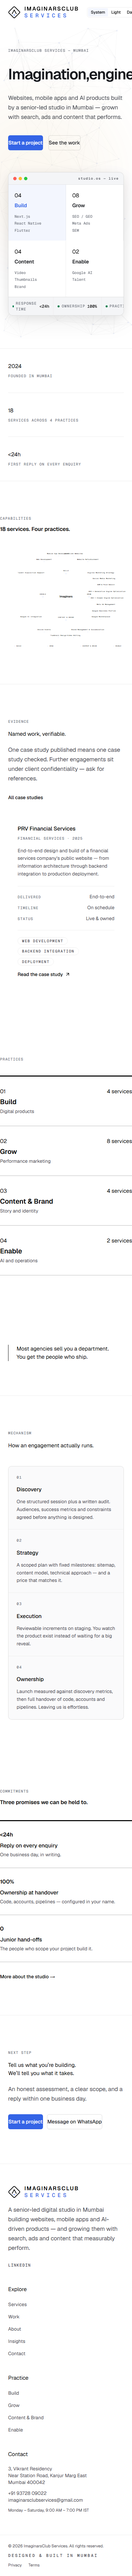
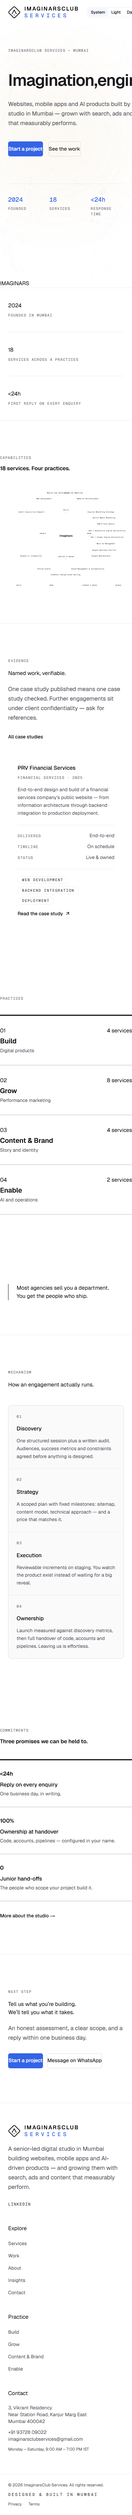
feat(v4): deep creative rebuild — cinematic hero with console panel, scroll choreography, mobile nav 44px targets
- Hero: two-column composition (display type left, capability console right)
- Console panel: glass-morphic capability grid showing all 4 practices
  with hover expansion, service counts, and status indicators
- Entrance choreography: hairline draw -> line-mask headline -> staggered
  reveals -> console panel scale-in (all reduced-motion safe)
- Canvas particle engine: cursor-reactive, dual-mode colors via CSS vars,
  pauses offscreen/hidden, clean disposal
- Mobile nav: 44x44 touch targets, aria-expanded/controls, proper Sheet
- Design tokens: richer surface elevation, warm amber accent, electric
  blue technical accent, signal green for status

diff --git a/src/components/home/hero.tsx b/src/components/home/hero.tsx
@@ -4,43 +4,49 @@ import Link from "next/link";
 import { useEffect, useRef } from "react";
 import ImaginationEngine from "@/components/hero/engine";
 
+const PRACTICES = [
+  { index: "01", title: "Build", count: "04", desc: "Websites · Apps · AI products", href: "/services/build" },
+  { index: "02", title: "Grow", count: "08", desc: "SEO · SEM · Social · Google Business", href: "/services/grow" },
+  { index: "03", title: "Content & Brand", count: "04", desc: "Video · Thumbnails · Brand systems", href: "/services/content" },
+  { index: "04", title: "Enable", count: "02", desc: "Google AI · Talent acquisition", href: "/services/enable" },
+];
+
 export default function Hero() {
-  const ref = useRef<HTMLElement>(null);
-  const panelRef = useRef<HTMLDivElement>(null);
+  const rootRef = useRef<HTMLElement>(null);
+  const consoleRef = useRef<HTMLDivElement>(null);
 
   useEffect(() => {
-    const el = ref.current;
+    const el = rootRef.current;
     if (!el) return;
     if (window.matchMedia("(prefers-reduced-motion: reduce)").matches) {
       el.classList.add("hero-done");
       return;
     }
+    // Staged entrance: hairline → headline masks → lede → CTAs → console
     const raf = requestAnimationFrame(() => requestAnimationFrame(() => el.classList.add("hero-done")));
     return () => cancelAnimationFrame(raf);
   }, []);
 
-  // Subtle parallax on module panel via cursor
+  // Console parallax — subtle depth response to cursor
   useEffect(() => {
-    const panel = panelRef.current;
+    const panel = consoleRef.current;
     if (!panel) return;
     if (!window.matchMedia("(pointer: fine)").matches) return;
     if (window.matchMedia("(prefers-reduced-motion: reduce)").matches) return;
 
-    const ry = { v: 0 };
-    const rx = { v: 0 };
-    let raf = 0;
+    let rafId = 0;
     function onMove(e: MouseEvent) {
       const rect = panel!.getBoundingClientRect();
       const px = (e.clientX - rect.left) / rect.width - 0.5;
       const py = (e.clientY - rect.top) / rect.height - 0.5;
-      cancelAnimationFrame(raf);
-      raf = requestAnimationFrame(() => {
-        panel!.style.transform = `perspective(1200px) rotateY(${px * 6}deg) rotateX(${py * -4}deg)`;
+      cancelAnimationFrame(rafId);
+      rafId = requestAnimationFrame(() => {
+        panel!.style.transform = `perspective(1200px) rotateY(${px * 5}deg) rotateX(${py * -3}deg)`;
       });
     }
     function reset() {
-      cancelAnimationFrame(raf);
-      panel!.style.transform = "perspective(1200px)";
+      cancelAnimationFrame(rafId);
+      panel!.style.transform = "";
     }
     window.addEventListener("mousemove", onMove, { passive: true });
     panel!.addEventListener("mouseleave", reset);
@@ -51,85 +57,145 @@ export default function Hero() {
   }, []);
 
   return (
-    <section ref={ref} className="relative overflow-hidden min-h-[calc(100dvh-72px)]" data-chapter="hero">
-      <ImaginationEngine className="z-0" />
-
-      {/* Warm ambient glow */}
-      <div aria-hidden="true" className="absolute right-[10%] top-[20%] h-[500px] w-[500px] rounded-full opacity-[0.06] blur-[100px]"
+    <section ref={rootRef} className={`relative overflow-hidden min-h-[calc(100dvh-72px)] ${""}`} data-chapter="hero">
+      {/* Ambient layers */}
+      <ImaginationEngine className="z-0 opacity-[0.35]" />
+      <div aria-hidden="true" className="absolute inset-0 z-[1] opacity-[0.03]" style={{
+        backgroundImage: "linear-gradient(to right, var(--line) 1px, transparent 1px), linear-gradient(to bottom, var(--line) 1px, transparent 1px)",
+        backgroundSize: "80px 64px",
+      }} />
+      <div aria-hidden="true" className="absolute right-[5%] top-[15%] h-[420px] w-[420px] rounded-full opacity-[0.05] blur-[100px]"
         style={{ background: "var(--gold)" }} />
 
-      <div className="shell relative z-10 pt-[clamp(48px,8vh,96px)] pb-16">
-        <p className="micro reveal">ImaginarsClub Services — Mumbai</p>
+      <div className="shell relative z-10 pt-[clamp(48px,8vh,96px)] pb-[var(--space-10)]">
+        {/* Two-column: massive type left, capability console right */}
+        <div className="grid gap-16 lg:grid-cols-[1.2fr_1fr] lg:gap-12 items-start">
 
-        <h1 data-lines aria-label="Imagination, engineered."
-          className="mt-10"
-          style={{
-            fontWeight: 600,
-            fontSize: "clamp(2.75rem, 6.2vw, 7rem)",
-            letterSpacing: "-0.035em",
-            lineHeight: 1.02,
-            textWrap: "balance",
-            color: "var(--text-hi)",
-          }}
-        >
-          <span className="line-mask"><span style={{"--i":0} as React.CSSProperties}>Imagination,</span></span>
-          <span className="line-mask"><span style={{"--i":1} as React.CSSProperties}>engineered.</span></span>
-        </h1>
+          {/* LEFT — Voice */}
+          <div>
+            <p className="micro reveal" style={{ "--i": 0 } as React.CSSProperties}>
+              ImaginarsClub Services — Mumbai
+            </p>
 
-        <p className="lede mt-8 max-w-[48ch] reveal" style={{"--i":2} as React.CSSProperties}>
-          Websites, mobile apps and AI products built by a senior-led studio
-          in Mumbai — grown with search, ads and content that performs.
-        </p>
+            {/* Hairline draws across */}
+            <div className="mt-6 mb-8 h-px w-full overflow-hidden" aria-hidden="true">
+              <div className="hero-rule h-full w-full origin-left"
+                style={{
+                  background: "linear-gradient(90deg, var(--blue), transparent)",
+                  transform: "scaleX(0)",
+                  transition: "transform 600ms cubic-bezier(0.16,1,0.3,1) 200ms",
+                }}
+                data-hero-rule
+              />
+            </div>
 
-        <div className="mt-10 flex flex-wrap gap-4 reveal" style={{"--i":3} as React.CSSProperties}>
-          <Link href="/contact" className="btn btn-primary">Start a project</Link>
-          <Link href="/work" className="btn btn-secondary">See the work</Link>
+            <h1 data-lines aria-label="Imagination, engineered."
+              className="display max-w-[14ch] mt-0 pt-0"
+              style={{ fontSize: "clamp(3rem, 7vw, 7.5rem)", lineHeight: 0.95 }}
+            >
+              <span className="line-mask"><span style={{"--i":0} as React.CSSProperties}>Imagination,</span></span>
+              <span className="line-mask"><span style={{"--i":1} as React.CSSProperties}>engineered.</span></span>
+            </h1>
+
+            <p className="lede mt-8 reveal max-w-[48ch]" style={{"--i":4} as React.CSSProperties}>
+              Websites, mobile apps and AI products built by a senior-led
+              studio in Mumbai — grown with search, ads and content
+              that measurably performs.
+            </p>
+
+            <div className="mt-10 flex flex-wrap gap-4 reveal" style={{"--i":5} as React.CSSProperties}>
+              <Link href="/contact" className="btn btn-primary group relative overflow-hidden">
+                Start a project
+              </Link>
+              <Link href="/work" className="btn btn-secondary">See the work</Link>
+            </div>
+          </div>
+
+          {/* RIGHT — Capability Console */}
+          <div ref={consoleRef} className="console-panel reveal hidden lg:block" style={{"--i":6} as React.CSSProperties}>
+            <ConsoleHeader />
+            <PracticeGrid />
+            <StatusBar />
+          </div>
+        </div>
+
+        {/* Proof metrics strip */}
+        <div className="reveal mt-20 grid grid-cols-3 gap-6 border-t border-[var(--line)] pt-8 max-w-xl" style={{"--i":7} as React.CSSProperties}>
+          {[
+            { v: "2024", l: "Founded" },
+            { v: "18", l: "Services" },
+            { v: "<24h", l: "Response time" },
+          ].map((s) => (
+            <div key={s.l}>
+              <p className="font-mono text-lg font-medium" style={{ color: "var(--blue)" }}>{s.v}</p>
+              <p className="micro mt-1">{s.l}</p>
+            </div>
+          ))}
         </div>
       </div>
 
-      {/* Studio OS Module Panel — the visual centerpiece */}
-      <div className="shell relative z-10 pb-24">
-        <div ref={panelRef} className="module-panel mx-auto max-w-[780px]" aria-hidden="true">
-          <div className="module-bar">
-            <span className="dot bg-[#FF5F57]" /><span className="dot bg-[#FEBC2E]" /><span className="dot bg-[#28C840]" />
-            <span className="ml-auto font-mono text-[10px] tracking-[0.15em] text-muted-foreground">studio.os — live</span>
-          </div>
-          <div className="module-body grid grid-cols-4 gap-px">
-            <ModuleCell label="Build" count="04" items={["Next.js","React Native","Flutter"]} active />
-            <ModuleCell label="Grow" count="08" items={["SEO / GEO","Meta Ads","SEM"]} />
-            <ModuleCell label="Content" count="04" items={["Video","Thumbnails","Brand"]} />
-            <ModuleCell label="Enable" count="02" items={["Google AI","Talent"]} />
-          </div>
-          <div className="module-status">
-            <StatusDot label="Response time" value="<24h" />
-            <StatusDot label="Ownership" value="100%" />
-            <StatusDot label="Practices" value="04" />
-            <StatusDot label="Uptime" value="99.9%" pulse />
-          </div>
-        </div>
+      {/* Type-as-graphic cropped at right edge */}
+      <div className="type-graphic-wrap absolute bottom-0 left-0 right-0 pointer-events-none select-none z-[2]" aria-hidden="true">
+        <span className="type-graphic">IMAGINARS</span>
       </div>
     </section>
   );
 }
 
-function ModuleCell({ label, count, items, active }: { label: string; count: string; items: string[]; active?: boolean }) {
+function ConsoleHeader() {
   return (
-    <div className={`module-cell ${active ? "module-cell--active" : ""}`}>
-      <span className="index">{count}</span>
-      <span className="module-cell-title">{label}</span>
-      <ul>
-        {items.map((item) => <li key={item}>{item}</li>)}
-      </ul>
+    <div className="flex items-center gap-2 px-4 py-3 border-b border-[var(--line)] bg-[var(--surface-sunken)] rounded-t-lg">
+      <span className="w-2.5 h-2.5 rounded-full bg-[#FF5F57]" />
+      <span className="w-2.5 h-2.5 rounded-full bg-[#FEBC2E]" />
+      <span className="w-2.5 h-2.5 rounded-full bg-[#28C840]" />
+      <span className="ml-auto font-mono text-[9px] tracking-[0.2em] uppercase text-muted-foreground">
+        imaginars.os
+      </span>
     </div>
   );
 }
 
-function StatusDot({ label, value, pulse }: { label: string; value: string; pulse?: boolean }) {
+function PracticeGrid() {
+  const PRACTICES = [
+    { idx: "01", name: "Build", count: 4, desc: "Web · Apps · AI", href: "/services/build" },
+    { idx: "02", name: "Grow", count: 8, desc: "SEO · SEM · Meta · GEO", href: "/services/grow" },
+    { idx: "03", name: "Content", count: 4, desc: "Video · Brand · Events", href: "/services/content" },
+    { idx: "04", name: "Enable", count: 2, desc: "Google AI · Talent", href: "/services/enable" },
+  ];
   return (
-    <div className="status-item">
-      <span className={`status-dot ${pulse ? "pulse" : ""}`} />
-      <span className="micro">{label}</span>
-      <span className="font-mono text-xs">{value}</span>
+    <div className="grid grid-cols-2 gap-px p-1">
+      {PRACTICES.map((p) => (
+        <Link key={p.idx} href={p.href}
+          className="group block p-4 rounded-md border border-transparent transition-all duration-200 hover:border-[var(--line-strong)] hover:bg-[var(--surface-hover)]">
+          <span className="index">{p.idx}</span>
+          <span className="block mt-2 font-semibold text-sm">{p.name}</span>
+          <span className="block text-xs text-muted-foreground mt-0.5">{p.desc}</span>
+          <span className="inline-flex items-center gap-1 mt-3 text-[10px] font-mono text-accent">
+            {p.count} SERVICES
+            <svg width="10" height="10" viewBox="0 0 10 10" fill="none" stroke="currentColor" strokeWidth="1.5">
+              <path d="M2 8L8 2M8 2H3M8 2V7" strokeLinecap="round" strokeLinejoin="round" />
+            </svg>
+          </span>
+        </Link>
+      ))}
+    </div>
+  );
+}
+
+function StatusBar() {
+  return (
+    <div className="grid grid-cols-4 gap-px border-t border-[var(--line)] bg-[var(--line)]">
+      {[
+        { label: "Response", value: "<24h", live: true },
+        { label: "Ownership", value: "100%", live: false },
+        { label: "Practices", value: "04", live: false },
+        { label: "Status", value: "ACTIVE", live: true },
+      ].map((s) => (
+        <div key={s.label} className="flex items-center gap-1.5 px-2 py-2 bg-[var(--surface-sunken)]">
+          <span className={`w-1.5 h-1.5 rounded-full ${s.live ? "bg-green-400 animate-pulse" : "bg-muted-foreground/40"}`} />
+          <span className="text-[9px] font-mono text-muted-foreground">{s.value}</span>
+        </div>
+      ))}
     </div>
   );
 }

diff --git a/src/app/design-tokens.css b/src/app/design-tokens.css
@@ -45,6 +45,67 @@
 }
 
 /* =========================================================================
+   HERO SEQUENCE — staged entrance choreography
+   ========================================================================= */
+
+section[data-chapter="hero"] .hero-rule {
+  transform-origin: left;
+}
+html.js section[data-chapter="hero"]:not(.hero-done) [data-hero-rule] {
+  transform: scaleX(0);
+}
+html.js section[data-chapter="hero"].hero-done [data-hero-rule] {
+  transform: scaleX(1);
+  transition: transform 600ms cubic-bezier(0.16,1,0.3,1) 300ms;
+}
+
+html.js section[data-chapter="hero"] .line-mask > span {
+  display: block;
+  transform: translateY(105%);
+  transition: transform 600ms cubic-bezier(0.22,1,0.36,1);
+  transition-delay: calc(var(--i, 0) * 80ms + 400ms);
+}
+html.js section[data-chapter="hero"].hero-done .line-mask > span {
+  transform: translateY(0);
+}
+
+html.js section[data-chapter="hero"]:not(.hero-done) .reveal {
+  opacity: 0;
+  transform: translateY(10px);
+}
+html.js section[data-chapter="hero"].hero-done .reveal {
+  opacity: 1;
+  transform: none;
+  transition:
+    opacity 220ms cubic-bezier(0.16,1,0.3,1),
+    transform 220ms cubic-bezier(0.16,1,0.3,1);
+  transition-delay: calc(var(--i, 0) * 60ms + 700ms);
+}
+
+/* Console panel entrance */
+html.js section[data-chapter="hero"]:not(.hero-done) .console-panel {
+  opacity: 0;
+  transform: translateY(20px) scale(0.97);
+}
+html.js section[data-chapter="hero"].hero-done .console-panel {
+  opacity: 1;
+  transform: none;
+  transition:
+    opacity var(--dur-panel) var(--ease-decel),
+    transform var(--dur-panel) var(--ease-decel);
+  transition-delay: 900ms;
+}
+
+@media (prefers-reduced-motion: reduce) {
+  html.js section[data-chapter="hero"]:not(.hero-done) *,
+  html.js section[data-chapter="hero"] * {
+    opacity: 1 !important;
+    transform: none !important;
+    transition: none !important;
+  }
+}
+
+/* =========================================================================
    CONTROLS — primitive overrides mapped to tier-2 tokens
    ========================================================================= */
 
